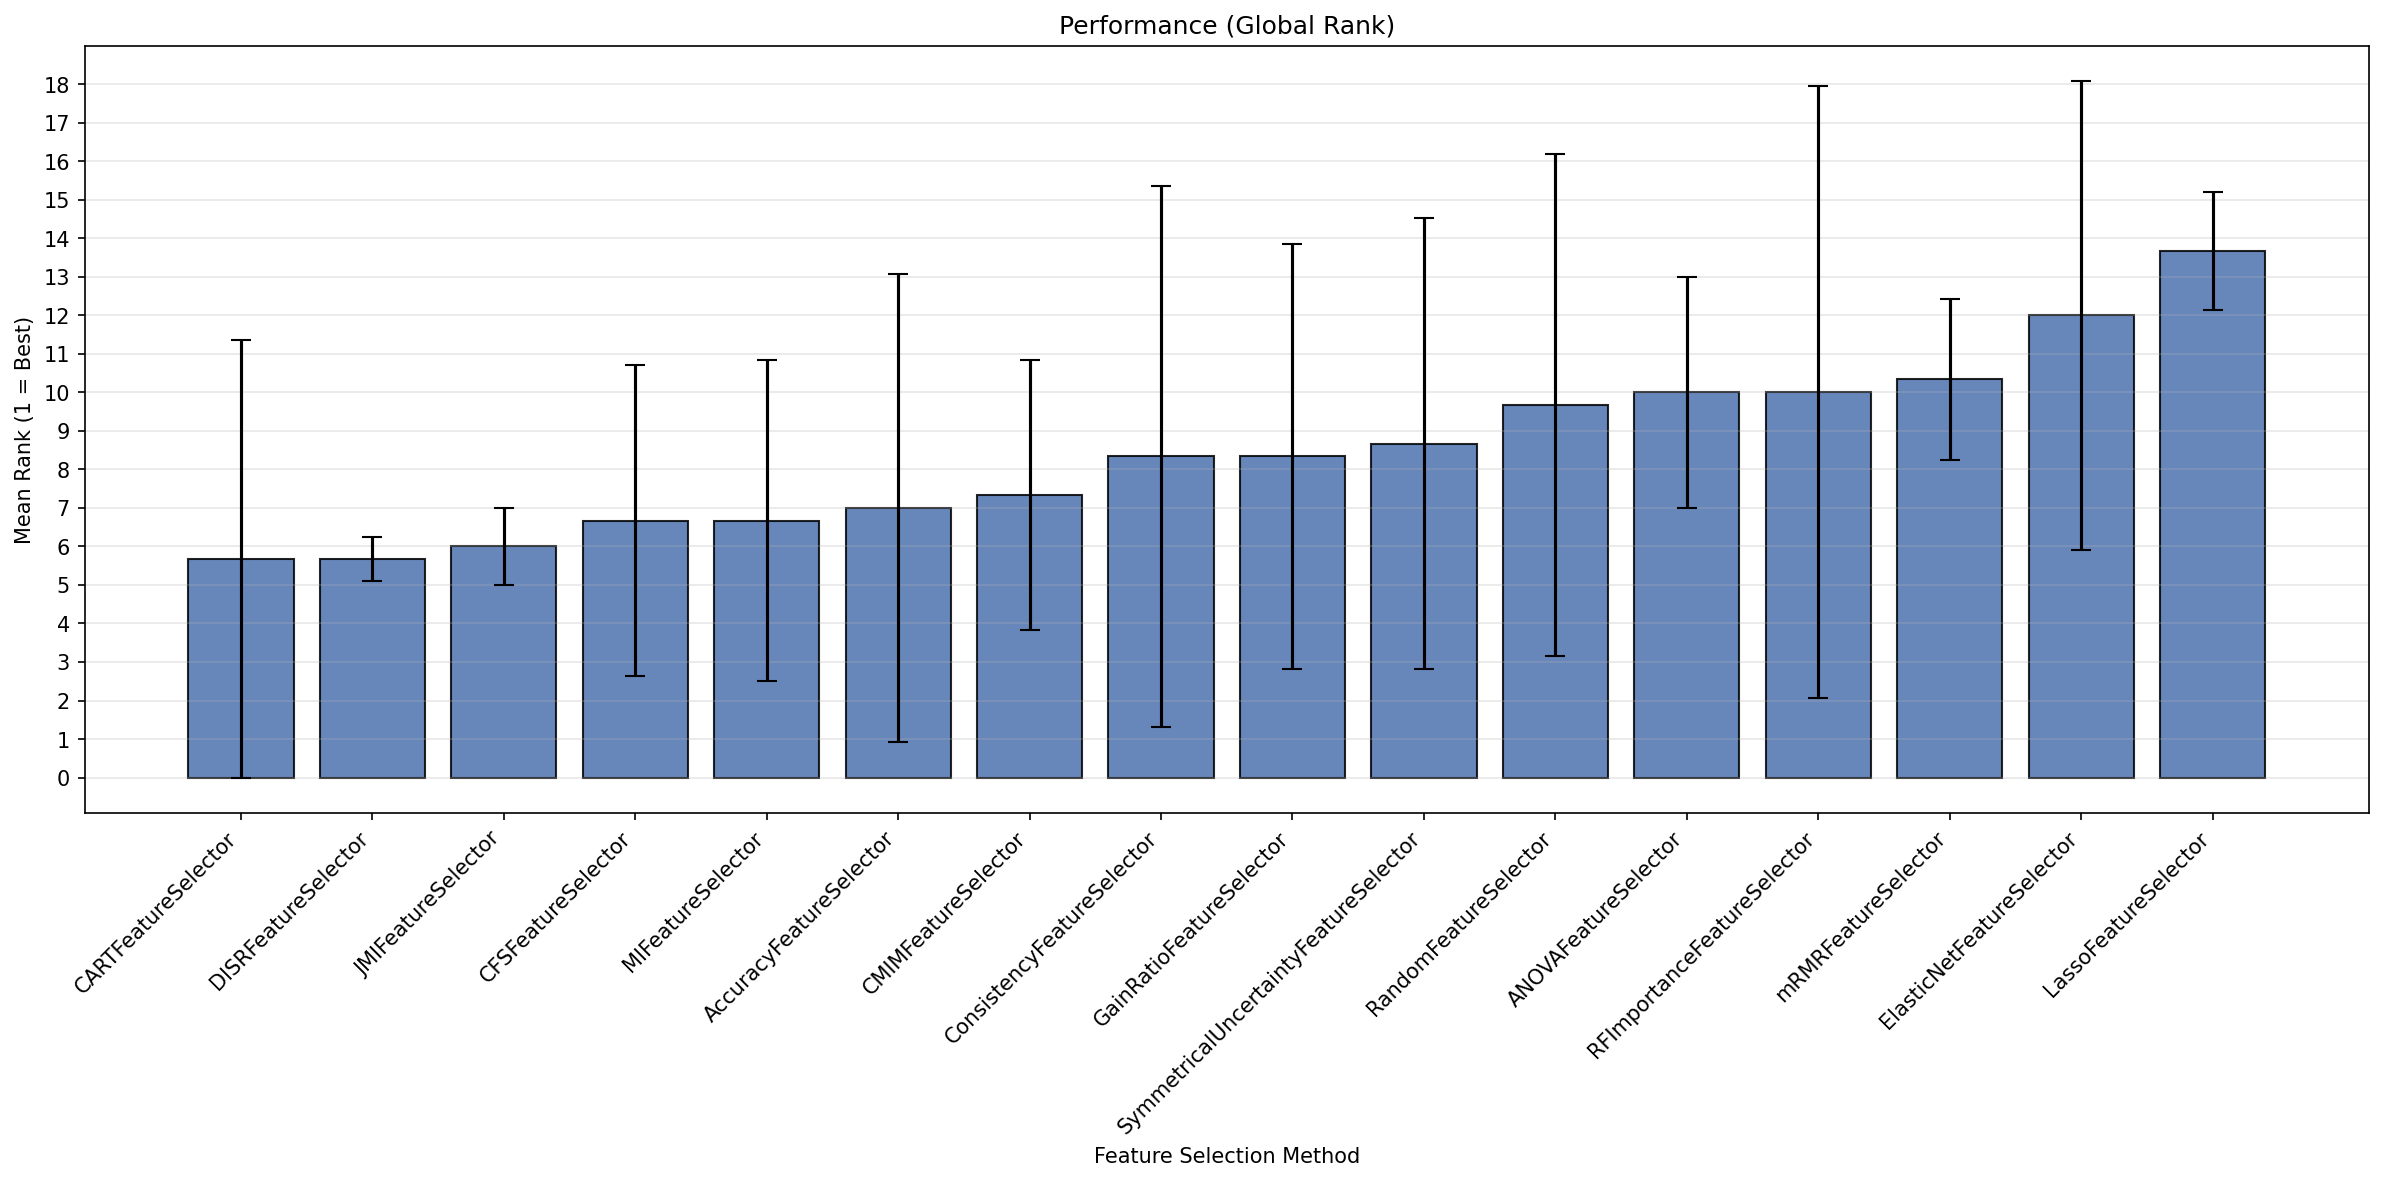
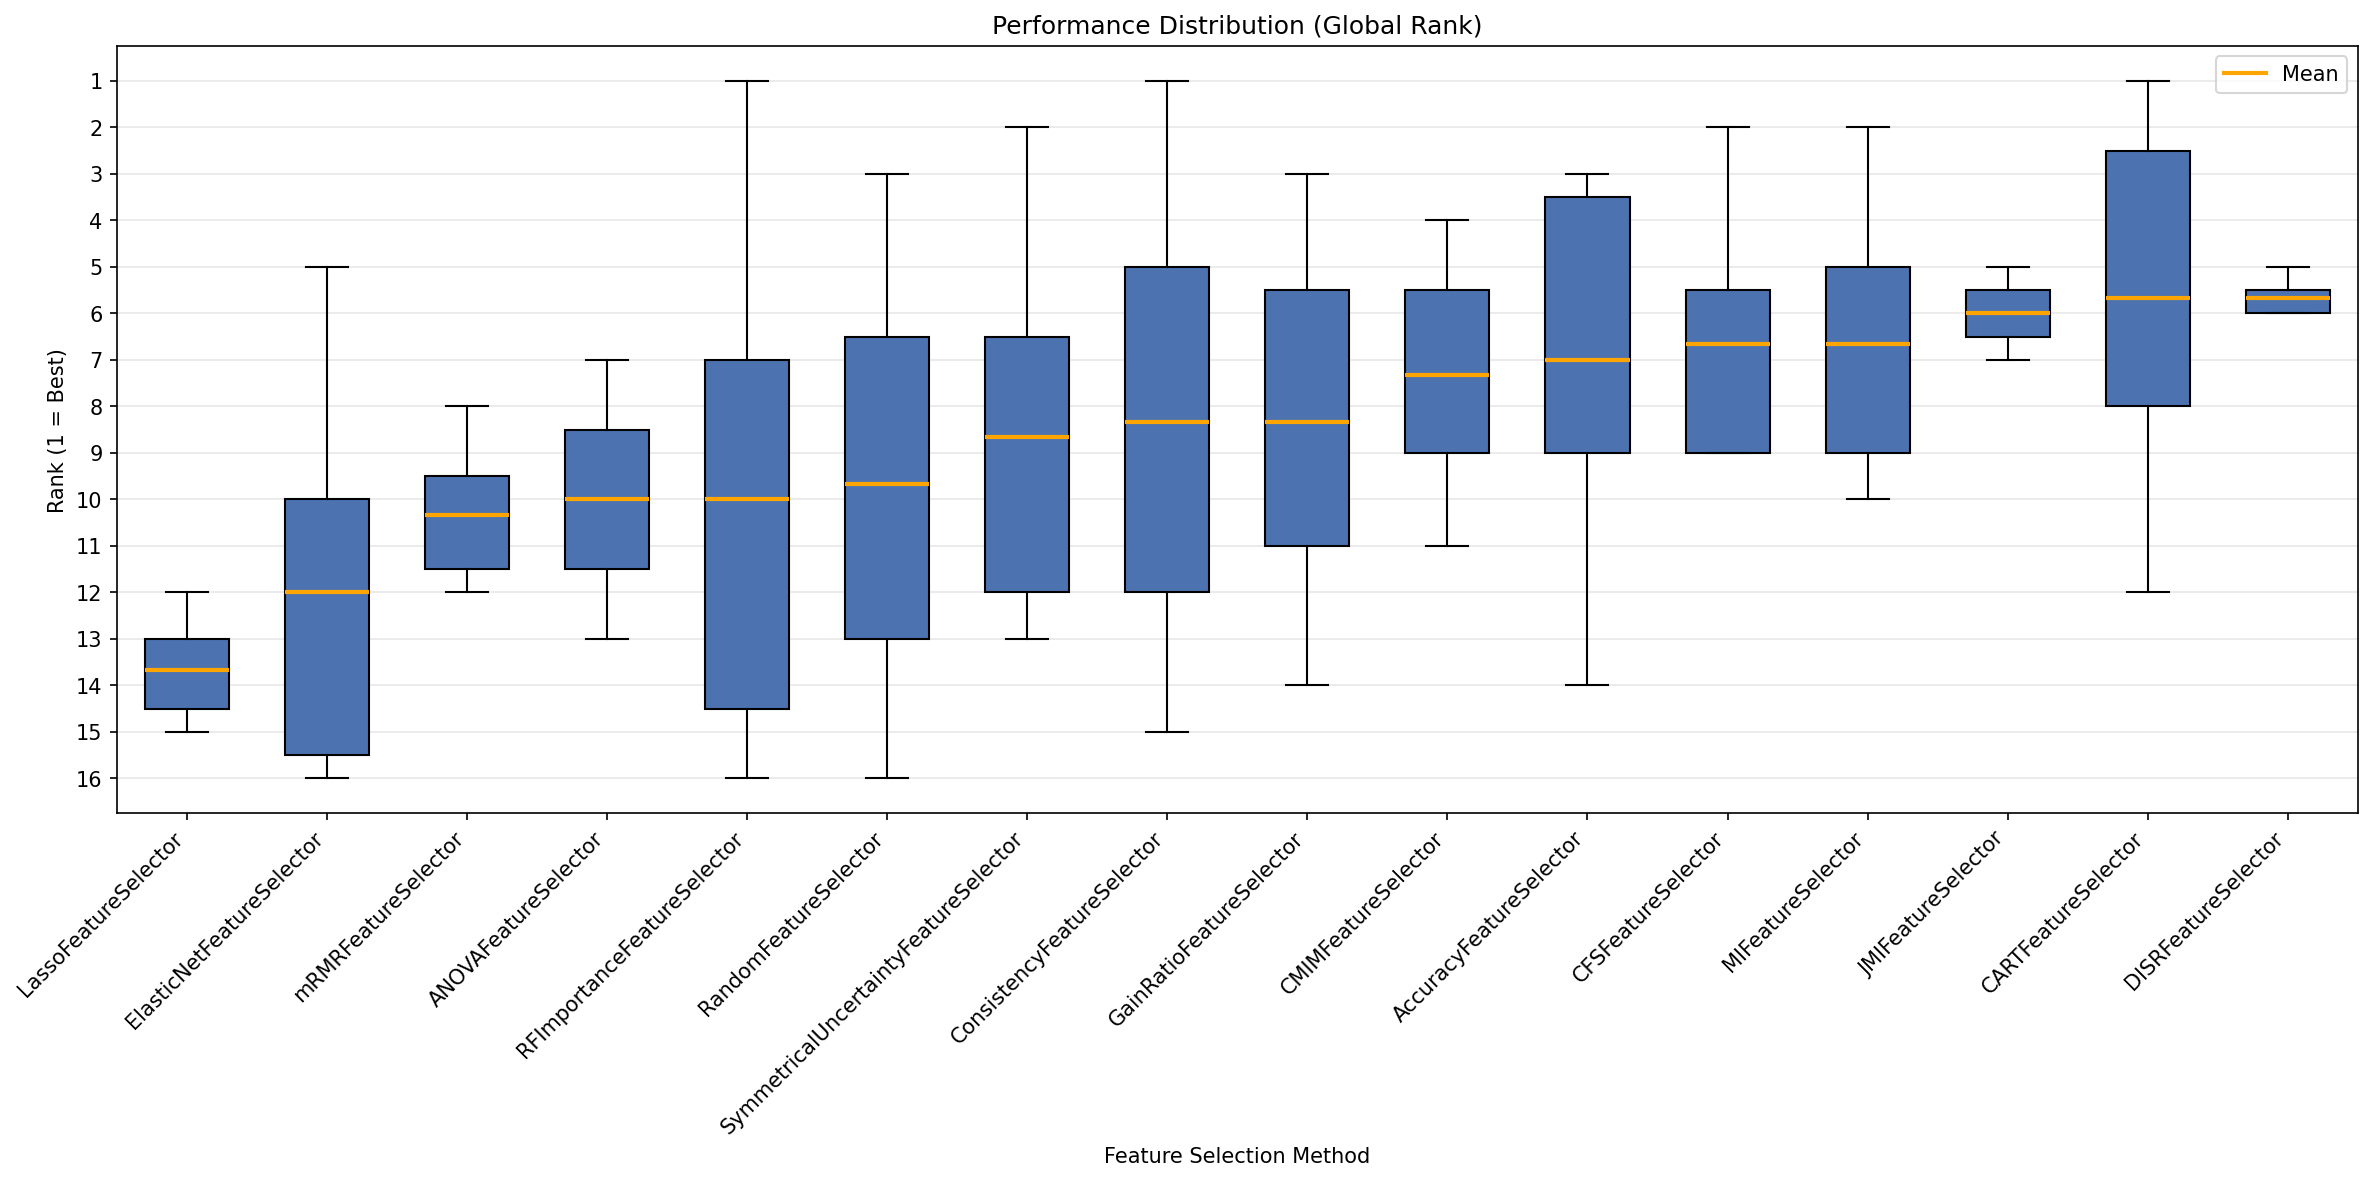
maint: change order of methods

diff --git a/plotting_code/performance/performance_rank_v1.py b/plotting_code/performance/performance_rank_v1.py
@@ -8,21 +8,29 @@ from matplotlib.ticker import MultipleLocator
 FILE_NAME = "results_per_split.csv"
 PLOT_NAME = "performance_rank_v1.png"
 # TODO: Adapt title and labels
-PLOT_TITLE = "Performance (Global Rank)"
+PLOT_TITLE = "Performance Distribution (Global Rank)"
 X_LABEL = "Feature Selection Method"
-Y_LABEL = "Mean Rank (1 = Best)"
+Y_LABEL = "Rank (1 = Best)"
 
 # Define which metrics mean "lower is better" vs "higher is better"
-# Adapt this dictionary to match the exact 'metric_name' strings in your CSV
 METRIC_DIRECTIONS = {
     "log_loss": True,  # Lower error is better
     "rmse": True,  # Lower error is better
     "roc_auc": False,  # Higher performance is better
+    "accuracy": False,
+    "f1": False
 }
 
 
-def calculate_global_ranks(df):
-    required_cols = ["metric", "feature_selection_method", "metric_error"]
+def calculate_raw_ranks(df):
+    required_cols = ["metric", "dataset", "feature_selection_method", "metric_error"]
+
+    if "dataset" not in df.columns:
+        required_cols.remove("dataset")
+        group_cols = ["metric"]
+    else:
+        group_cols = ["metric", "dataset"]
+
     df_clean = df.dropna(subset=required_cols).copy()
 
     # 1. Adjust metric values so "Lower is ALWAYS Better"
@@ -35,65 +43,81 @@ def calculate_global_ranks(df):
     df_clean["adjusted_metric"] = df_clean.apply(adjust_direction, axis=1)
 
     # 2. Average the adjusted metric per method, per dataset, per metric
-    # This collapses cross-validation splits and models so we only have ONE row per method
     df_collapsed = df_clean.groupby(
-        ["metric", "feature_selection_method"]
+        group_cols + ["feature_selection_method"]
     )["adjusted_metric"].mean().reset_index()
 
-    # 3. Calculate the Rank
-    df_collapsed["rank"] = df_collapsed.groupby(["metric"])["adjusted_metric"].rank(
+    # 3. Calculate the Rank across datasets
+    df_collapsed["rank"] = df_collapsed.groupby(group_cols)["adjusted_metric"].rank(
         method="min",
         ascending=True,
         na_option="bottom"
     )
 
-    # 4. Aggregate mean rank and std of rank per feature selection method
-    agg_df = df_collapsed.groupby("feature_selection_method")["rank"].agg(["mean", "std"]).reset_index()
-    agg_df.columns = ["feature_selection_method", "mean_rank", "std_rank"]
-    agg_df["std_rank"] = agg_df["std_rank"].fillna(0)
-
-    return agg_df
+    return df_collapsed
 
 
-# TODO: Adapt plotting function
-def plot(df):
-    # Get the globally ranked dataframe
-    agg_df = calculate_global_ranks(df)
+def plot_boxplot(df):
+    ranked_df = calculate_raw_ranks(df)
 
-    # Sort by rank (best first: lower mean_rank = better)
-    agg_df = agg_df.sort_values("mean_rank", ascending=True)
+    # Sort the boxes from best (left) to worst (right) by MEAN rank
+    mean_ranks = ranked_df.groupby("feature_selection_method")["rank"].mean().reset_index()
+    mean_ranks = mean_ranks.sort_values("rank", ascending=False)
+    sorted_methods = mean_ranks["feature_selection_method"].tolist()
 
-    methods = agg_df["feature_selection_method"].values
-    ranks = agg_df["mean_rank"].values
-    stds = agg_df["std_rank"].values
+    data_to_plot = []
+    for method in sorted_methods:
+        method_data = ranked_df[ranked_df["feature_selection_method"] == method]["rank"].values
+        data_to_plot.append(method_data)
 
     fig, ax = plt.subplots(figsize=(16, 8))
 
-    x = np.arange(len(methods))
+    # ---- CUSTOMIZE BOXPLOT PROPS ----
+    boxprops = dict(linewidth=1.5, color="black", facecolor="#4C72B0", alpha=0.7)
 
-    bars = ax.bar(
-        x,
-        ranks,
-        yerr=stds,
-        capsize=5,
-        alpha=0.85,
-        edgecolor="black",
-        color="#4C72B0"
+    # Hide the median line entirely
+    medianprops = dict(linewidth=0, visible=False)
+
+    # Make the mean look exactly like the traditional median line
+    meanprops = dict(linestyle='-', linewidth=2, color='orange')
+
+    # Create the boxplot
+    bp = ax.boxplot(
+        data_to_plot,
+        patch_artist=True,
+        showmeans=True,  # Enable showing the mean
+        meanline=True,  # Force the mean to be a line, not a marker
+        meanprops=meanprops,  # Apply the solid orange styling
+        medianprops=medianprops,  # Apply the hidden median styling
+        flierprops=dict(marker='o', color='black', alpha=0.3, markersize=5),
+        widths=0.6
     )
 
-    ax.set_xticks(x)
-    ax.set_xticklabels(methods, rotation=45, ha="right")
+    # Set colors for the boxes
+    for patch in bp['boxes']:
+        patch.set_facecolor('#4C72B0')
+
+    # Formatting
+    ax.set_xticks(np.arange(1, len(sorted_methods) + 1))
+    ax.set_xticklabels(sorted_methods, rotation=45, ha="right")
     ax.set_title(PLOT_TITLE)
     ax.set_xlabel(X_LABEL)
     ax.set_ylabel(Y_LABEL)
-    ax.yaxis.set_major_locator(MultipleLocator(1))
 
+    ax.yaxis.set_major_locator(MultipleLocator(1))
+    ax.invert_yaxis()  # 1 is best, so put it at the top
     ax.grid(True, alpha=0.3, axis="y")
+
+    # Add a custom legend to explicitly state the line is the mean
+    ax.plot([], [], color='orange', linestyle='-', linewidth=2, label='Mean')
+    ax.legend(loc="upper right")
 
     plt.tight_layout()
     out = OUTPUT_DIR / PLOT_NAME
     plt.savefig(out, dpi=150, bbox_inches="tight")
     plt.close()
+
+    print(f"✅ Boxplot saved to {out}")
 
 
 # Do nothing below
@@ -103,20 +127,9 @@ OUTPUT_DIR = SCRIPT_DIR / "generated_plots/performance"
 OUTPUT_DIR.mkdir(parents=True, exist_ok=True)
 
 
-def extract_model_name(model_details):
-    """Clean model name from dict string"""
-    if pd.isna(model_details):
-        return "Unknown"
-    try:
-        details = eval(model_details)  # Safe for your format
-        return f"{details['model_cls']} ({details['model_type']})"
-    except:
-        return str(model_details)[:20] + "..."
-
-
 def main():
     df = pd.read_csv(RESULTS_FILE, low_memory=False)
-    plot(df)
+    plot_boxplot(df)
 
 
 if __name__ == "__main__":

diff --git a/plotting_code/performance/relative_performance_v1.py b/plotting_code/performance/relative_performance_v1.py
@@ -13,17 +13,12 @@ METRIC_DIRECTIONS = {
     "log_loss": True,  # Lower error is better
     "rmse": True,  # Lower error is better
     "roc_auc": False,  # Higher performance is better
-    "accuracy": False,
-    "f1": False
 }
 
 
 def calculate_relative_performance(df):
-    # Dynamically check if 'dataset' is in the CSV to group properly.
-    # If not, just group by 'metric'.
-    group_cols = [c for c in ["dataset", "metric"] if c in df.columns]
-    if not group_cols:
-        group_cols = ["metric"]
+    # Group by 'metric'.
+    group_cols = ["metric"]
 
     required_cols = group_cols + ["feature_selection_method", "metric_error"]
     df_clean = df.dropna(subset=required_cols).copy()
@@ -78,7 +73,7 @@ def plot_relative(df):
     agg_df = calculate_relative_performance(df)
 
     # Sort by score (best first: higher score = better)
-    agg_df = agg_df.sort_values("mean_score", ascending=False)
+    agg_df = agg_df.sort_values("mean_score", ascending=True)
 
     methods = agg_df["feature_selection_method"].values
     scores = agg_df["mean_score"].values
